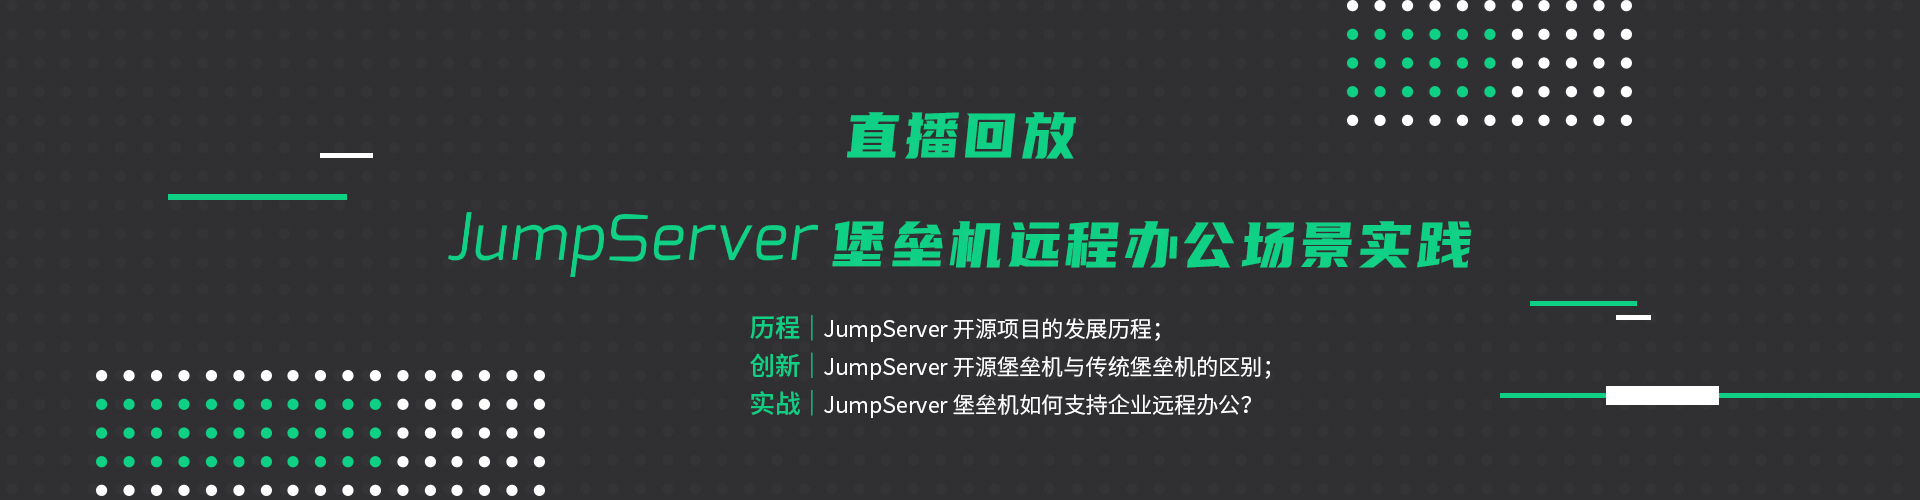
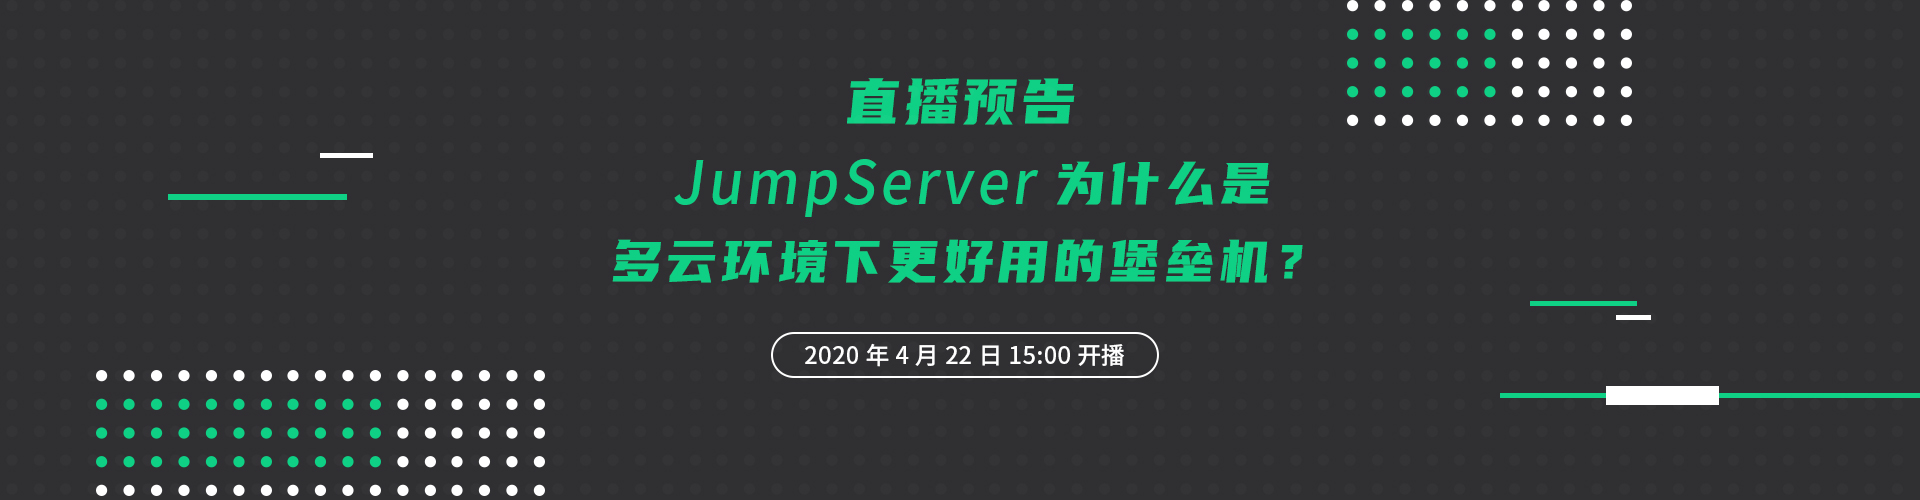
[Update] 修改直播海报

Changed region(s): [[0.2188, 0.15, 0.7812, 0.57], [0.375, 0.63, 0.6562, 0.84]]

diff --git a/index.html b/index.html
@@ -109,7 +109,7 @@
                 <div class="container"></div>
                 <!-- Set background for slide in css -->
                 <div class="header-back seven">
-                    <a style="height: 470px;width: 100%;display: block" href="http://live.vhall.com/907004669"></a>
+                    <a style="height: 470px;width: 100%;display: block" href="http://live.vhall.com/187419651"></a>
                 </div>
             </div>
         </div>
